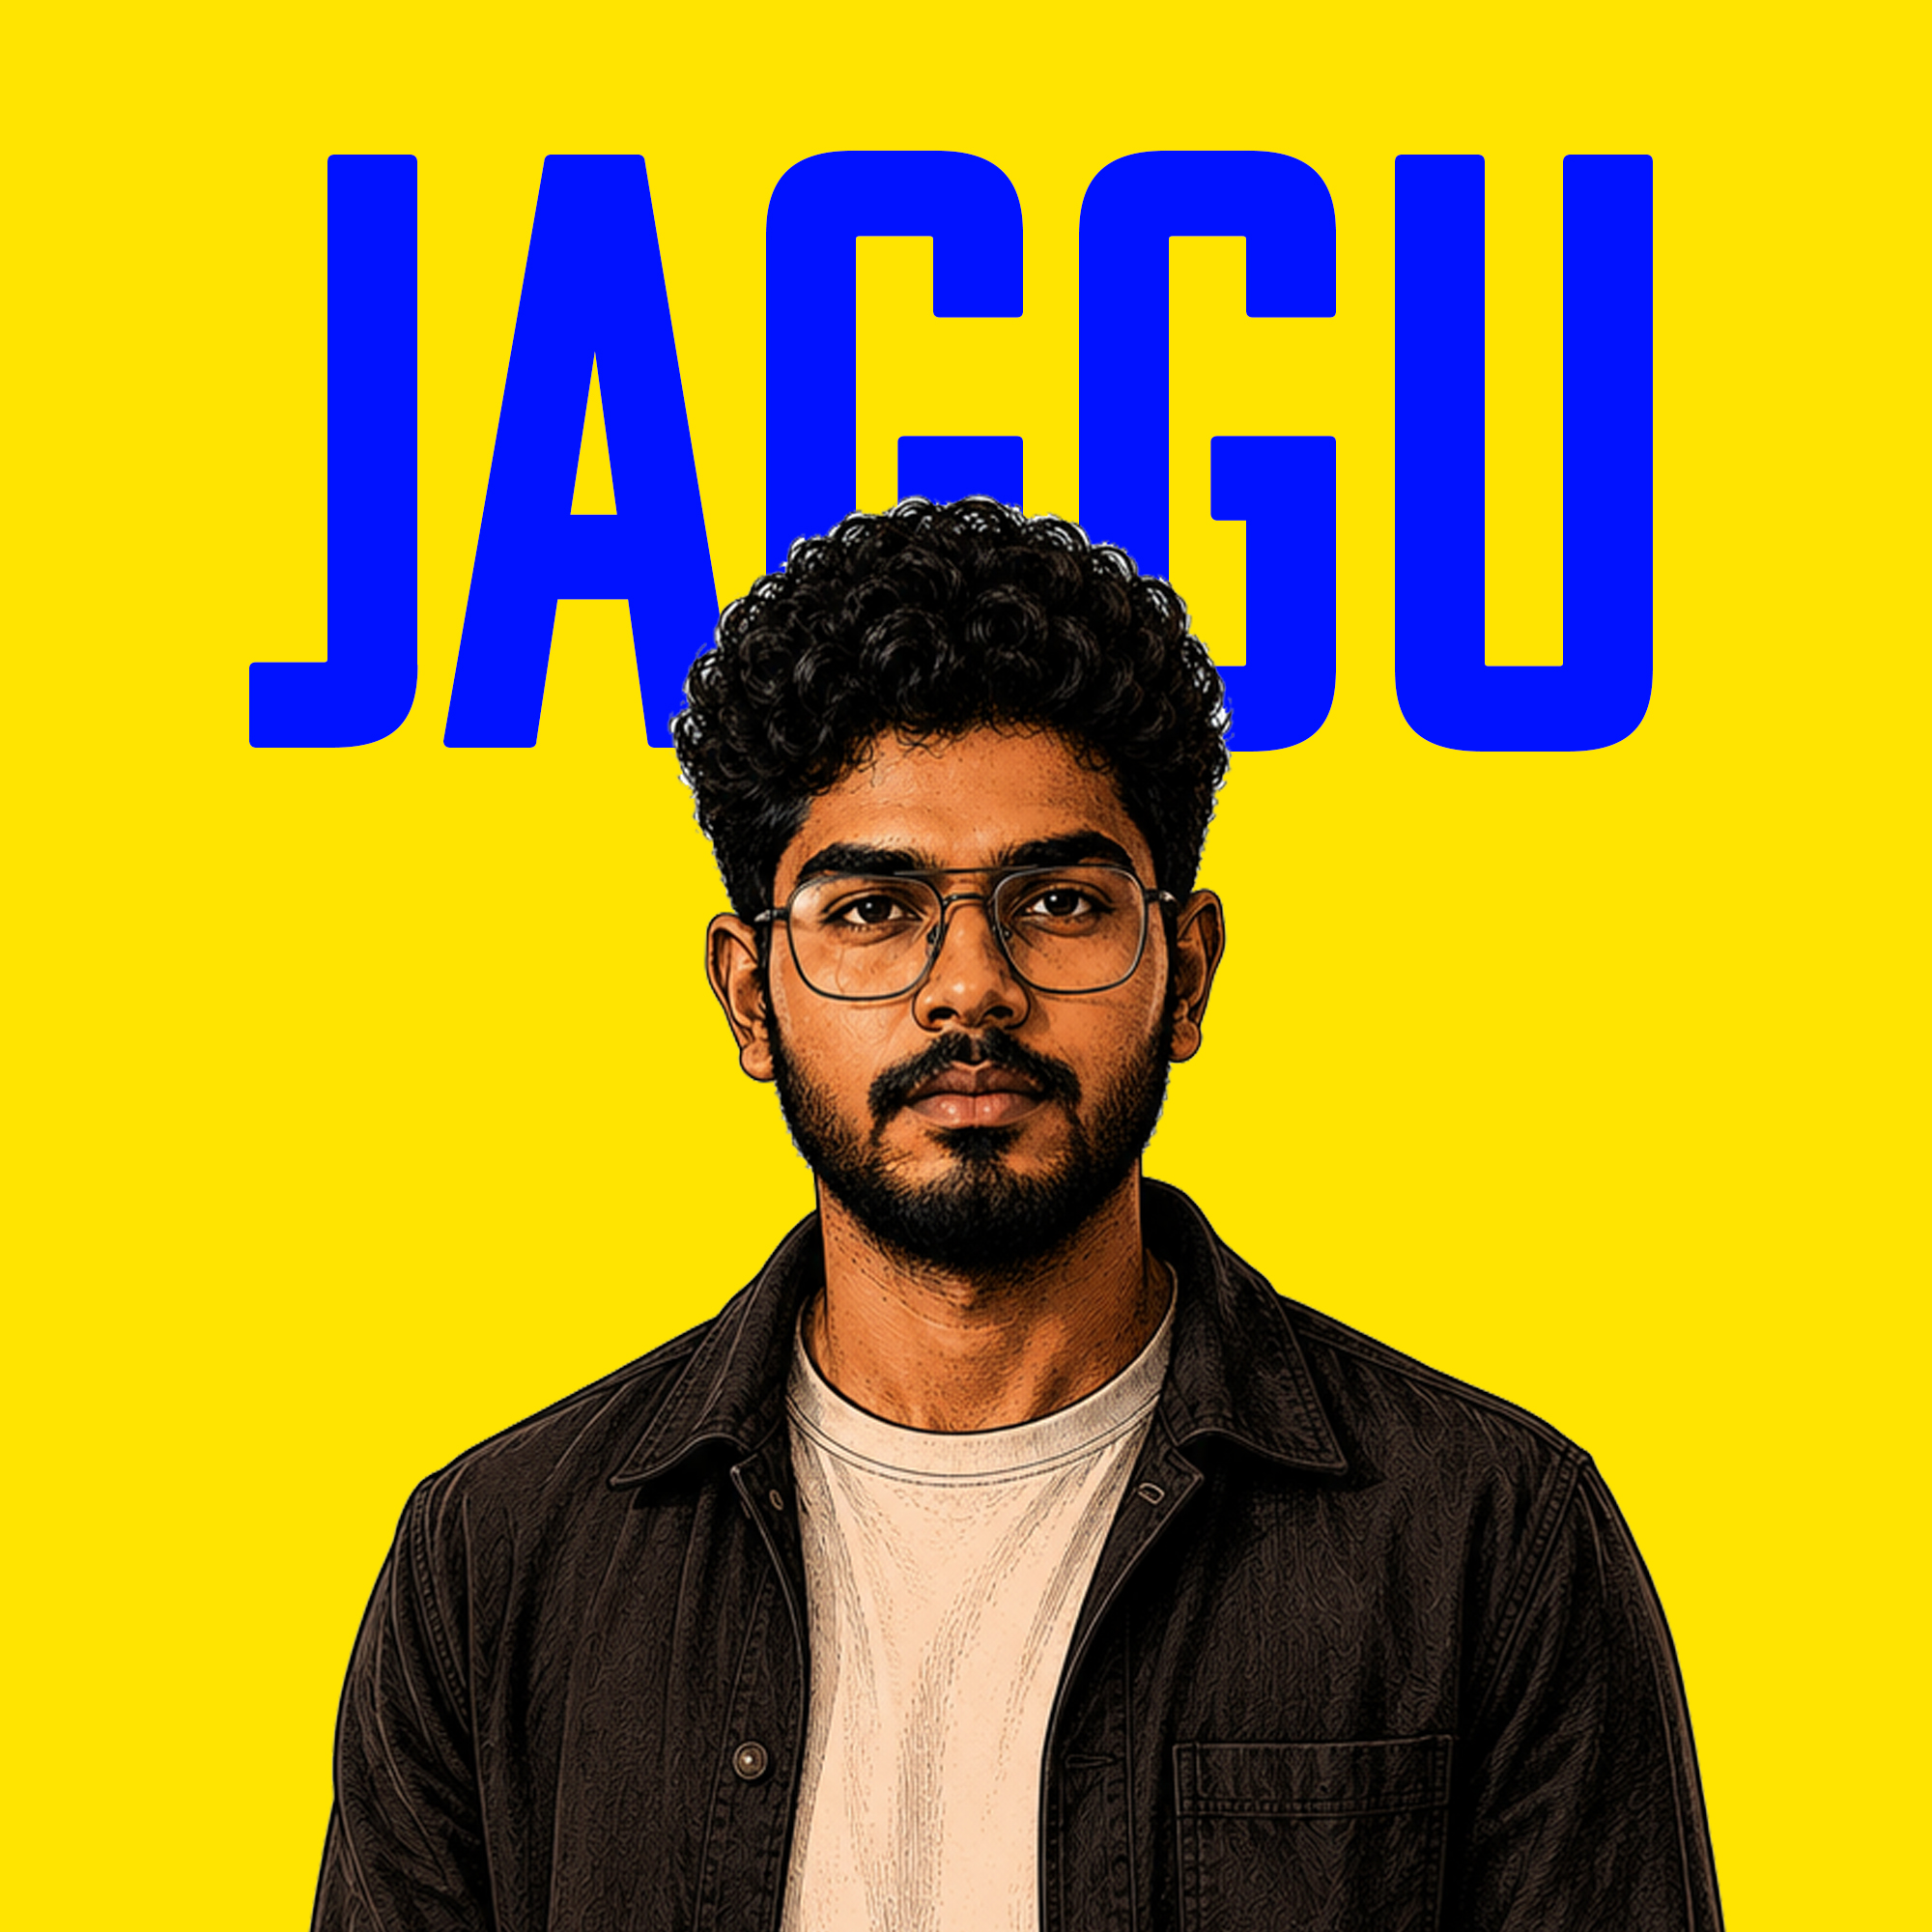
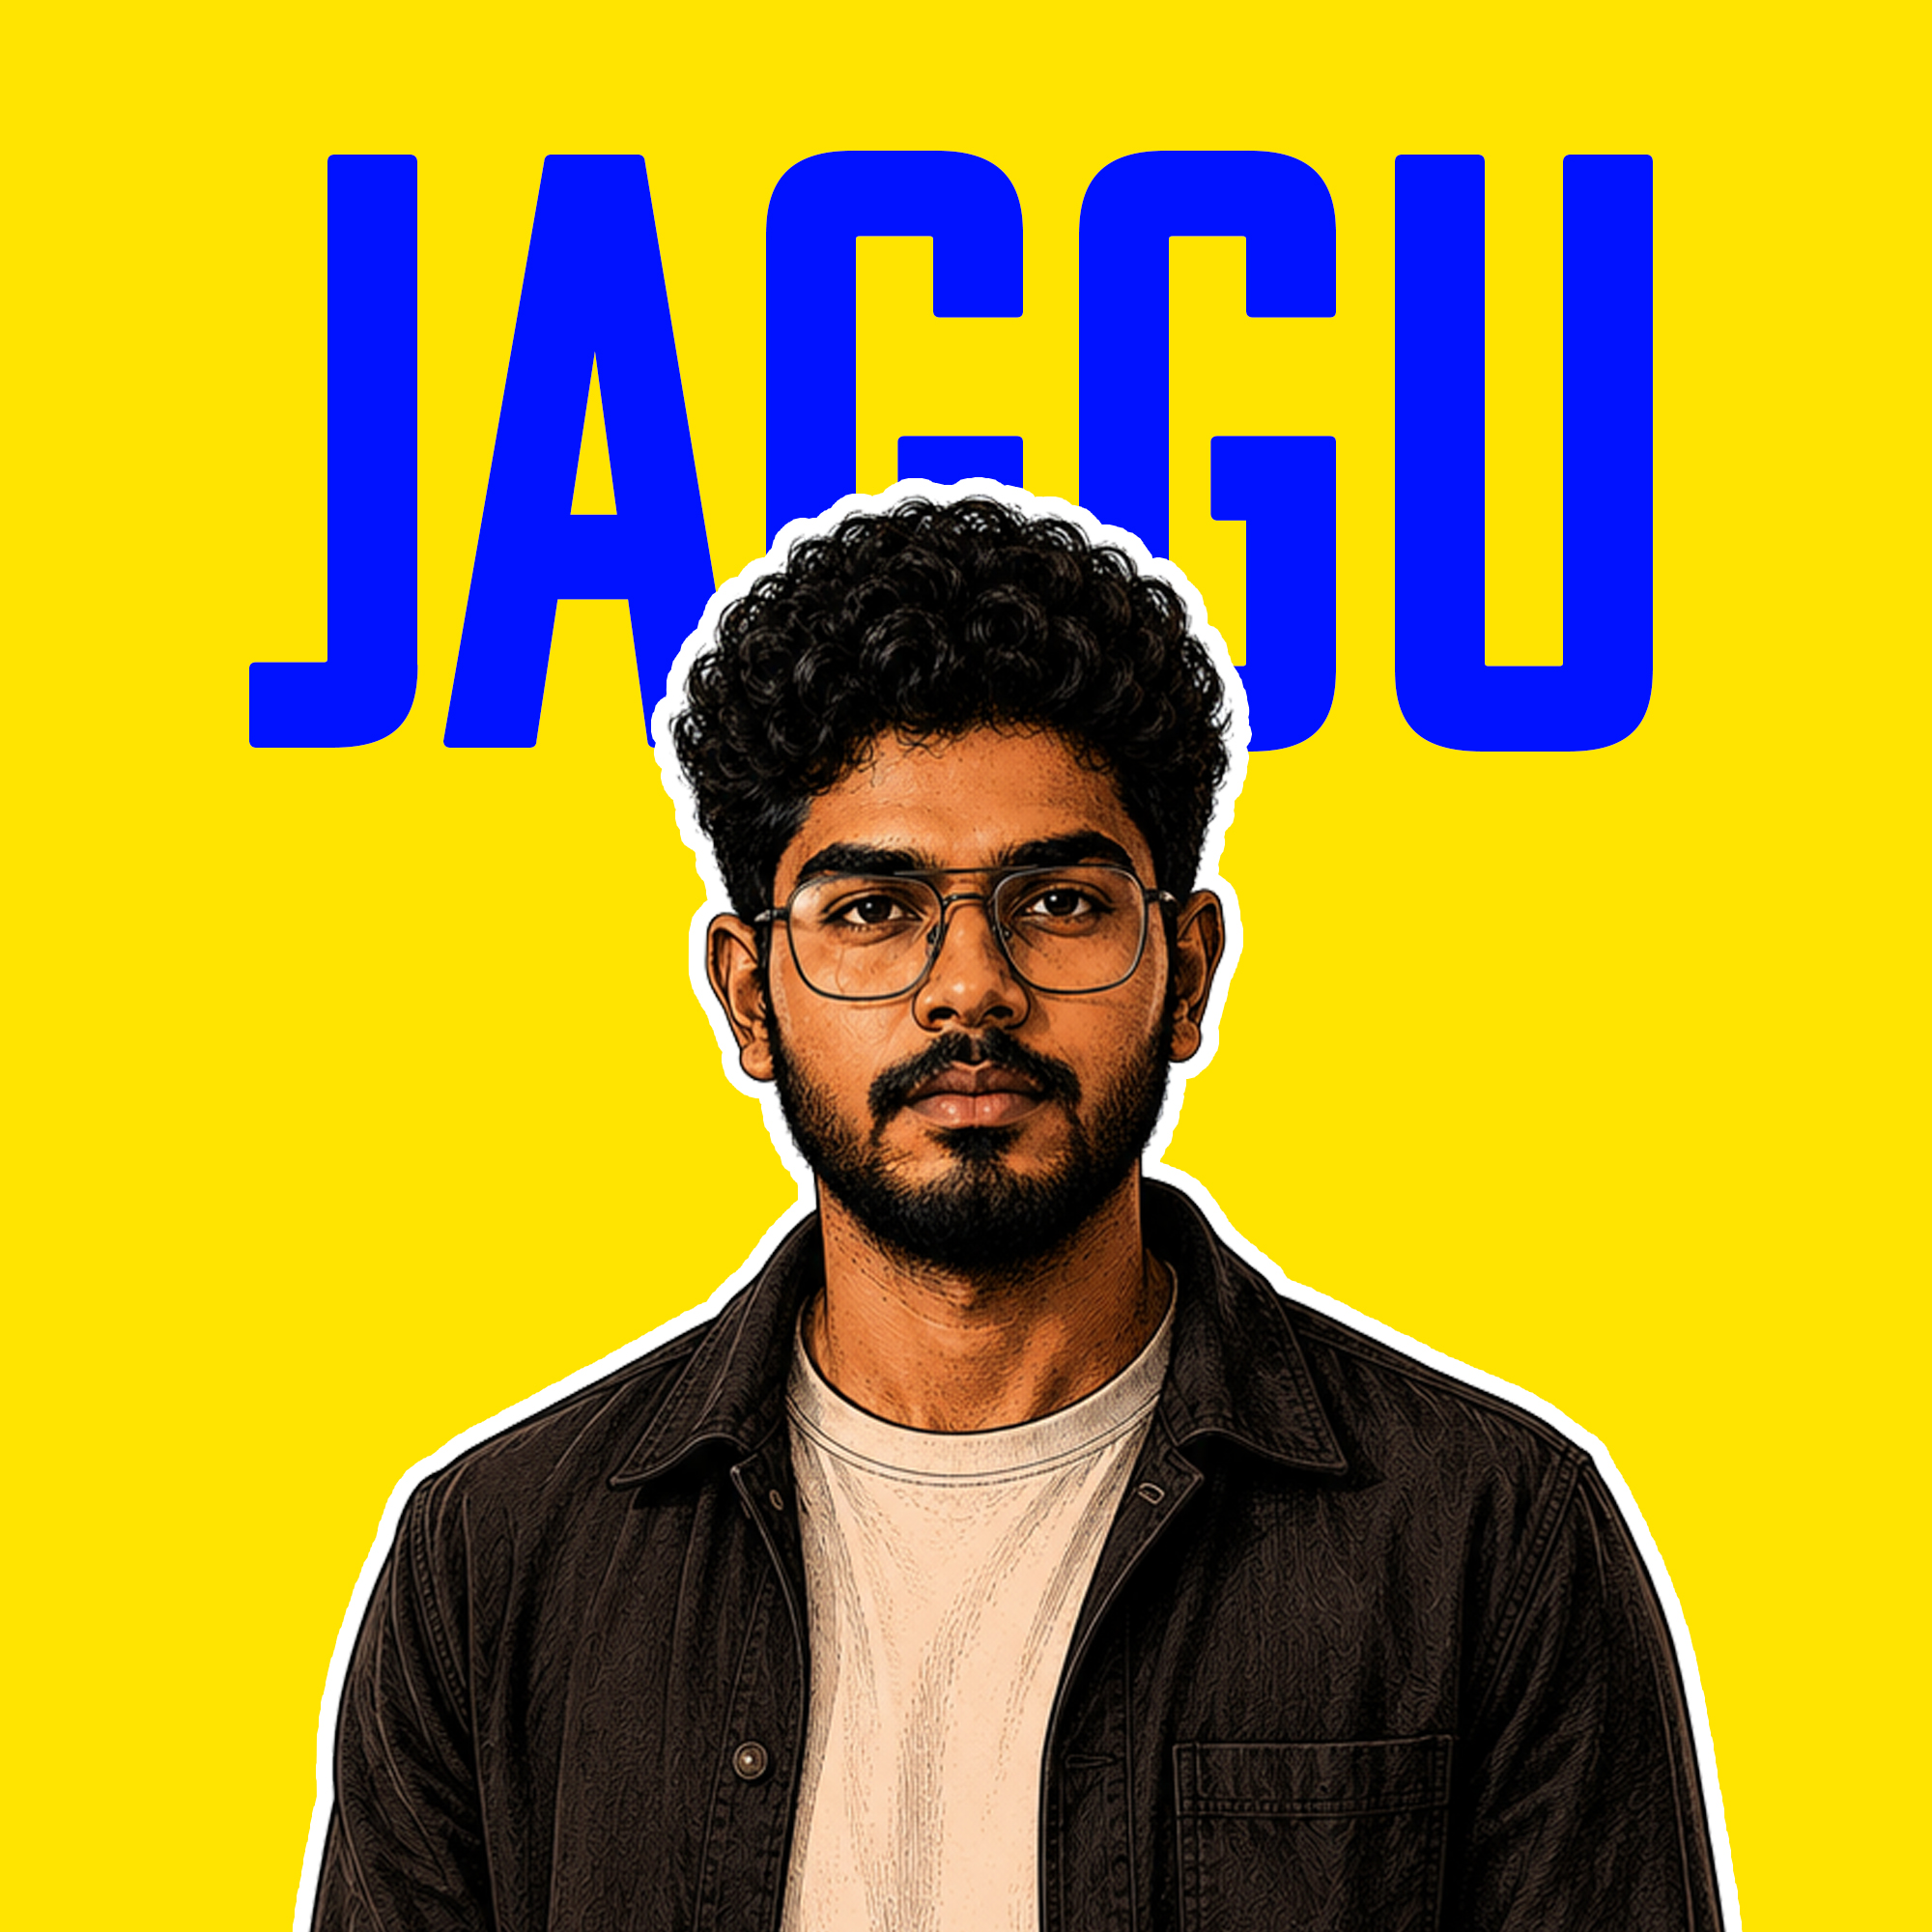
Update AI Employees dropdown: roles and new team members
- DIA role changed to AI Receptionist
- Replace JAGGU image with updated version
- Add Social Media Manager (RADHE)
- Add Graphic Designer (DAYANA)

diff --git a/index.html b/index.html
@@ -87,8 +87,26 @@
                                     <img src="images/dia.jpeg" alt="DIA" onerror="this.style.display='none'">
                                 </div>
                                 <div class="ai-emp-info">
-                                    <h4>Social Media Manager</h4>
+                                    <h4>AI Receptionist</h4>
                                     <span>DIA</span>
+                                </div>
+                            </a>
+                            <a href="#" class="ai-emp-item">
+                                <div class="ai-emp-avatar" style="background: #9C27B0;">
+                                    <img src="images/radhe.jpeg" alt="RADHE" onerror="this.style.display='none'">
+                                </div>
+                                <div class="ai-emp-info">
+                                    <h4>Social Media Manager</h4>
+                                    <span>RADHE</span>
+                                </div>
+                            </a>
+                            <a href="#" class="ai-emp-item">
+                                <div class="ai-emp-avatar" style="background: #00BCD4;">
+                                    <img src="images/dayana.jpeg" alt="DAYANA" onerror="this.style.display='none'">
+                                </div>
+                                <div class="ai-emp-info">
+                                    <h4>Graphic Designer</h4>
+                                    <span>DAYANA</span>
                                 </div>
                             </a>
                         </div>